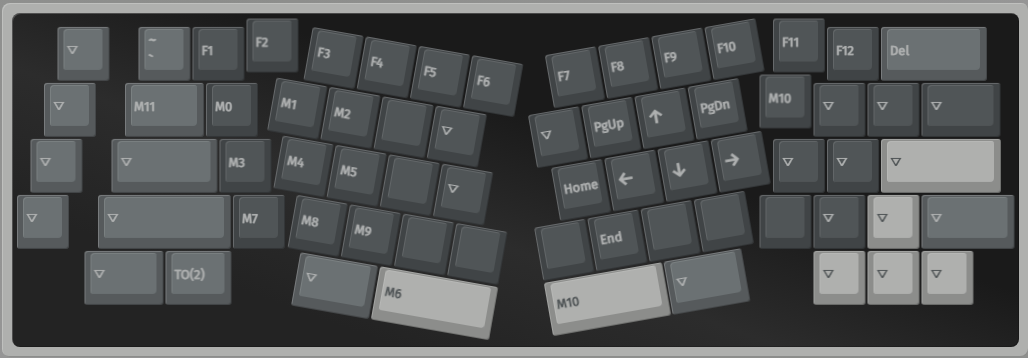
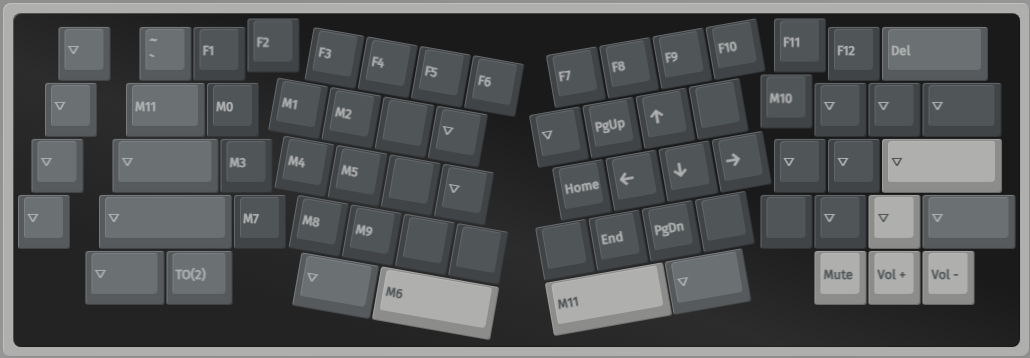
neo ergo macro fix and layout update

diff --git a/neo-ergo/README.md b/neo-ergo/README.md
@@ -17,7 +17,7 @@ These macros are used along with [BetterTouchTool](https://folivora.ai/) to perf
 | M8       | `{KC_LALT,KC_LGUI,KC_MINS}`         | Decrease zoom                                             |
 | M9       | `{KC_LALT,KC_LGUI,KC_EQL}`          | Increase zoom                                             |
 | M10      | `{KC_LCTL}{KC_LGUI}{KC_LSFT}4`      | Take a screenshot (OSX)                                   |
-| M11      | `{+KC_LGUI}S`                       | Take a screenshot (Windows)                               |
+| M11      | `{KC_LGUI,KC_LSFT,KC_S}`                       | Take a screenshot (Windows)                               |
 
 #### Layer 0
 ![alt text](images/neo_ergo_layer0.png)
